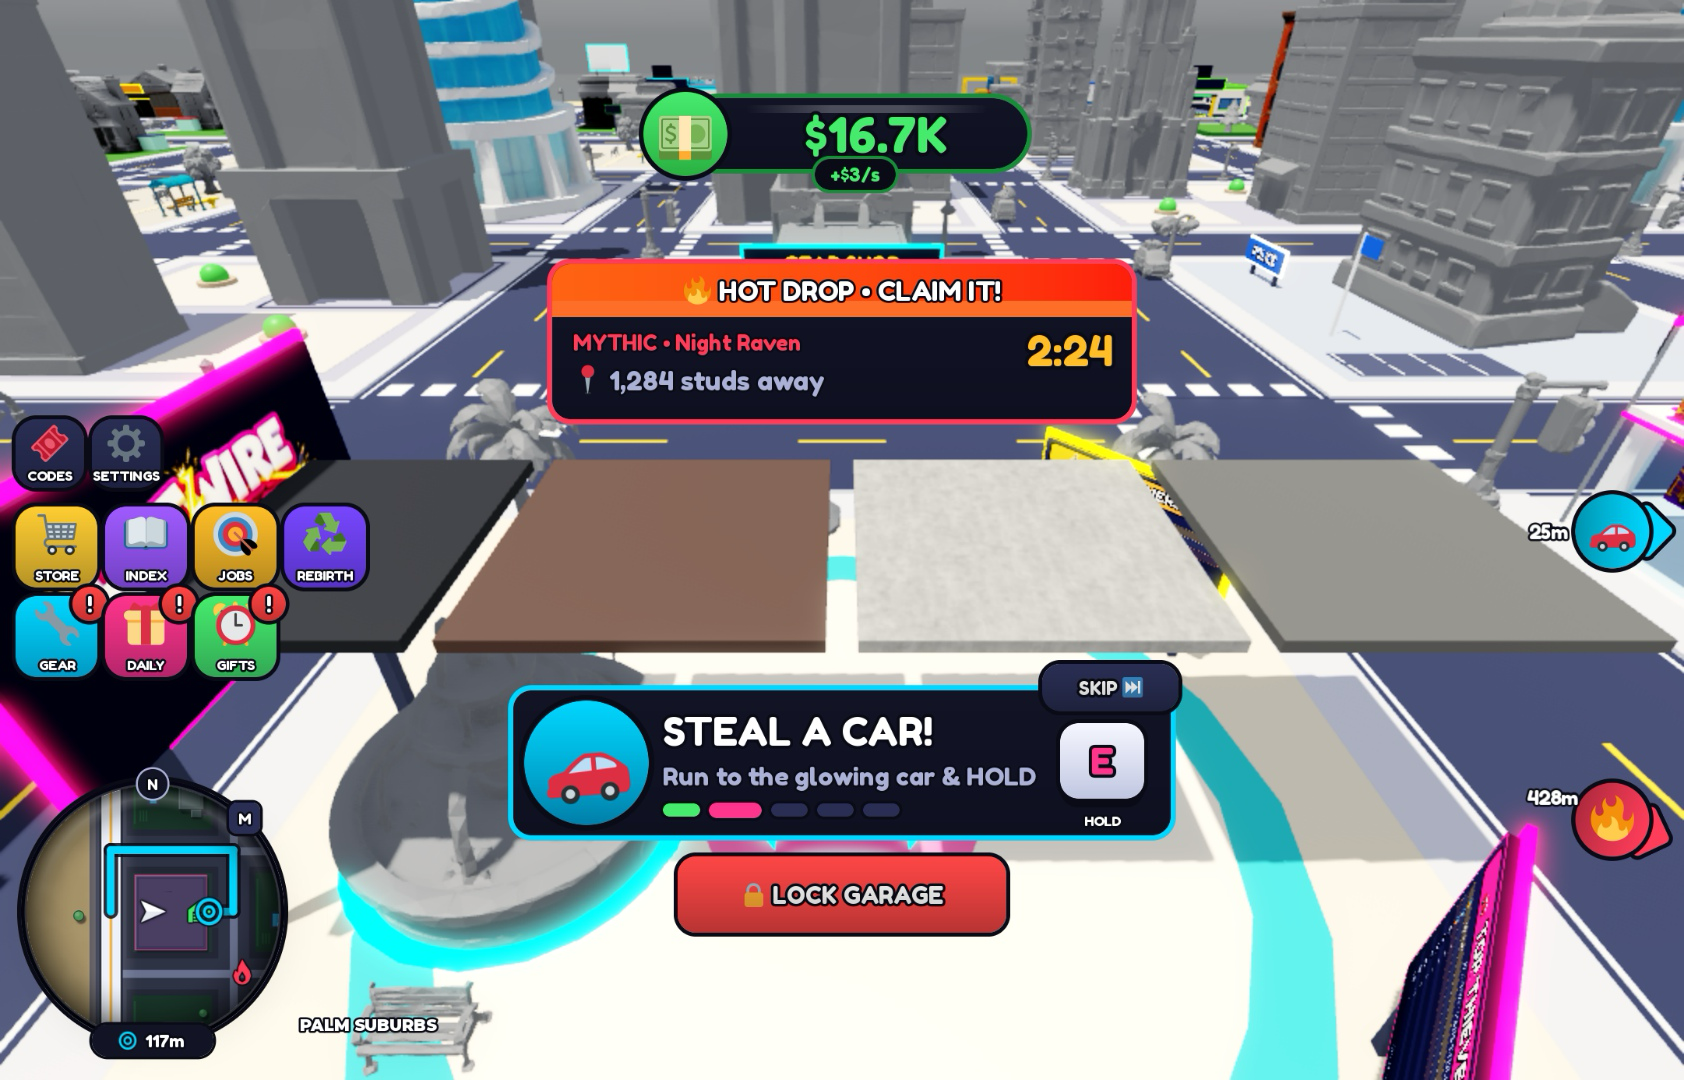
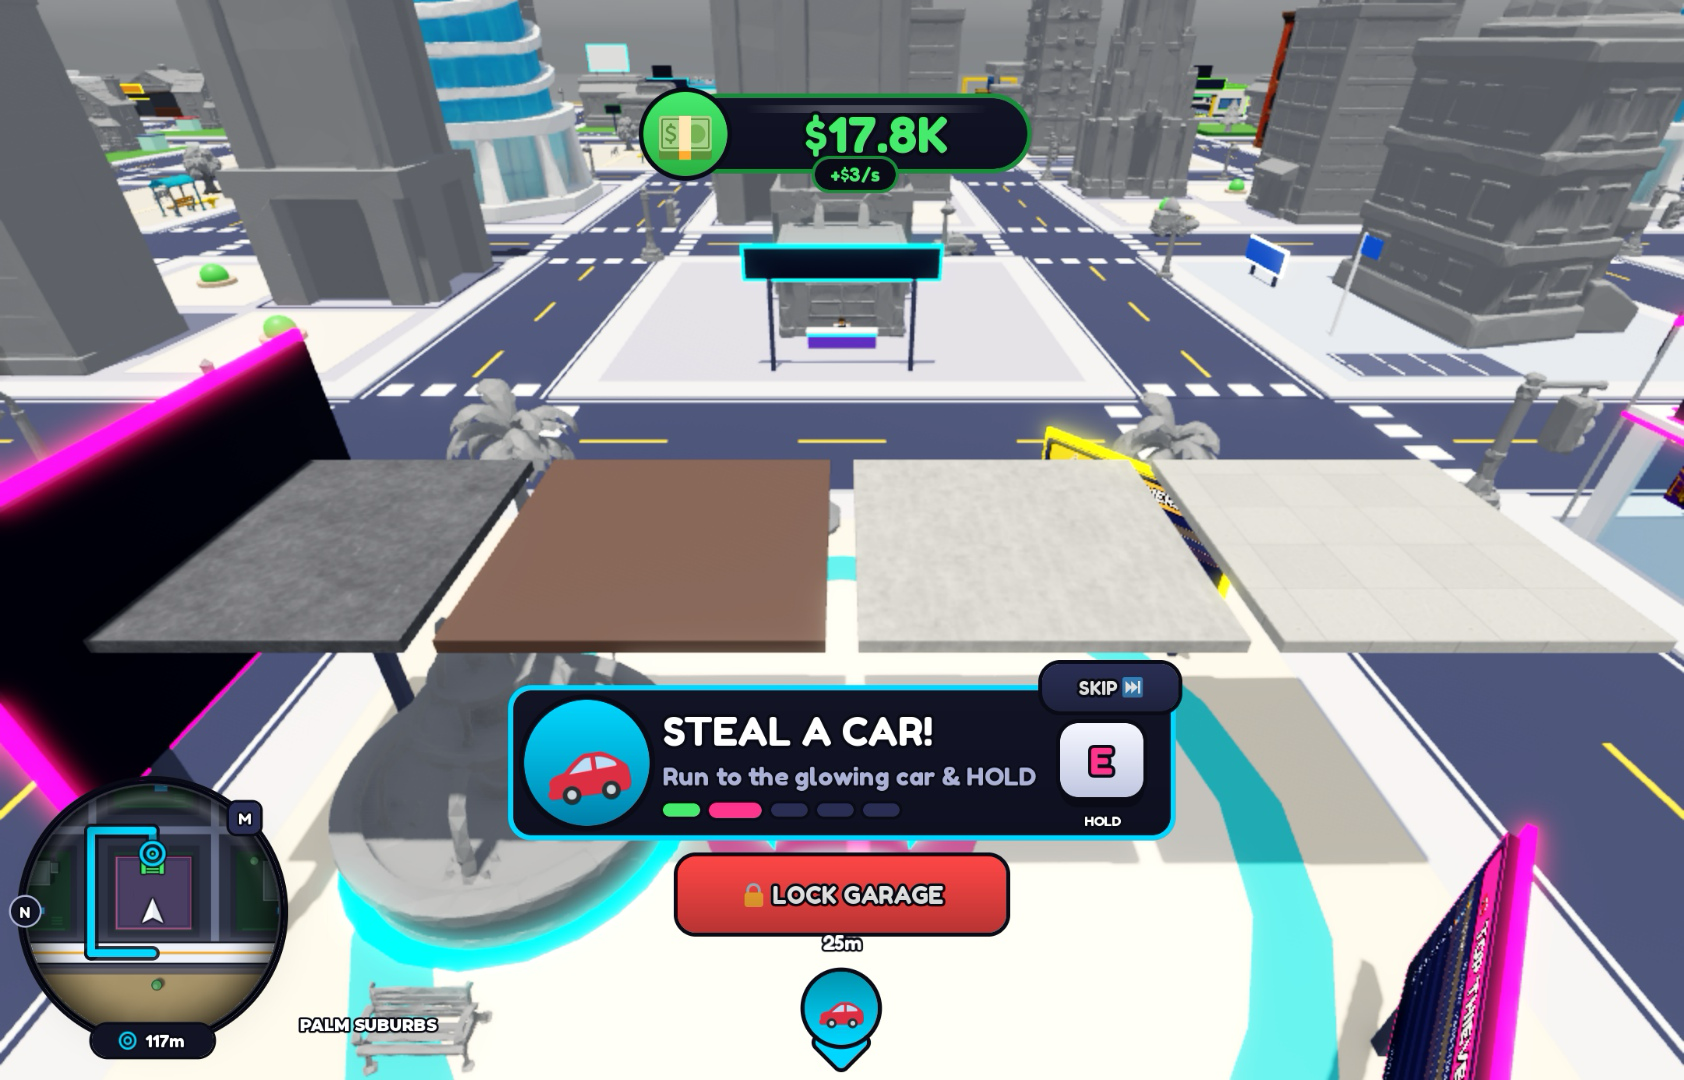
results: 0011 done (PBR check redone after account cleared: asphalt/concrete/sidewalk OK, brick variants flat pending asset regeneration)

diff --git a/studio/results/0011/report.md b/studio/results/0011/report.md
@@ -1,9 +1,10 @@
-# Job 0011 report: look sweep on version 31 (PAUSED, partial, no DONE)
+# Job 0011 report: look sweep on version 31 (DONE)
 
-> **Paused at the lead's request:** the owner account is moderated, and Open Cloud returns 403 "User is moderated".
-> All sweeps A–D were already captured when the pause arrived. Play is stopped and the place is back in Edit.
-> **Nothing was saved or published.** No moderation or ban notice appeared in Studio, and nothing was acknowledged.
-> The account issue affects the **PBR verdict** (and possibly sky textures), so step 4 should be redone once the account is cleared.
+> **History:**
+> - The job was paused partway (owner account moderated). Sweeps A–D had already been captured.
+> - It was resumed at step 4 after the lead confirmed the account was cleared, on the same place and Studio window.
+> - **Nothing was saved or published.** No moderation notice appeared in Studio, and nothing was acknowledged.
+> - The resumed session had **0** "403" or "moderated" lines.
 
 ## Setup
 - **Studio:** one window. The owner reopened the place from Roblox and wasn't sure of the version number. The content confirms **v31**:
@@ -33,16 +34,30 @@
 - **All sweep shots below are at Level 21.** I set the setting back to Automatic afterwards.
 - **Recommendation:** treat overview readability on low quality as a draw-distance and LOD question, separate from Atmosphere tuning.
 
-## Step 4: PBR check (cannot be judged)
-- `pbr_check.png` (Level 21): Asphalt is dark grey, Brick is plain brown, Concrete is pale and speckled, Pavement is plain grey.
-- **No HC_ maps show:** no aggregate, no brick bond, no sidewalk joints. They are tinted stock materials.
-- **The cause is the account, not the overrides.** The Server log shows:
-  - `Unable to load MaterialService.HC_Asphalt - ColorMap 'rbxassetid://112223103107268' (Error: HTTP 403 (Forbidden))`
-  - the same for its NormalMap and RoughnessMap, and for HC_Sidewalk;
-  - then `Unable to generate 'MaterialService.HC_Asphalt' due to some of the textures being unavailable`.
-- The overrides are wired correctly (16/16); the textures just can't download while the account returns 403.
-- **Redo step 4 once the account is cleared.**
-- I cleaned up the slabs with `PBRCHECK_CLEAN`.
+## Step 4: PBR check (redone after the account was cleared, 22:01 UTC)
+The first attempt, `pbr_check_403_blocked.png`, was blocked: every HC_ map returned 403 and the slabs rendered as stock materials.
+
+**Redone at Level 21** (`pbr_check.png`, `pbr_close_*`):
+
+| Slab | Override | Result |
+|---|---|---|
+| Asphalt | HC_Asphalt | ✅ **The PBR map shows:** fine dark aggregate with soft tone patches and a slight sheen. Clearly not stock asphalt. *(pbr_close_asphalt)* |
+| Concrete | HC_Concrete | ✅ A mottled, poured-concrete surface with subtle staining. |
+| Pavement | HC_Sidewalk | ✅ **Sidewalk joints are visible:** a square slab grid at about 10.7 studs. |
+| Brick | HC_BrickRed | ❌ **Completely flat brown, with no brick bond at all.** Even stock Roblox Brick would show bricks, so the variant is rendering with empty maps. *(pbr_close_brick, pbr_close_brick_retry)* |
+
+**Brick diagnosis:**
+- The override is correct: `GetBaseMaterialOverride(Brick) = HC_BrickRed`, `StudsPerTile` 5, and ColorMap `130389958232148`.
+- I made two slabs forced to `MaterialVariant = HC_BrickTan` and `HC_BrickRed`. **Both are also flat** (`diag_brick_variants.png`), so it affects both brick variants.
+- The **same texture ids applied as plain Decals do render as brick** (`diag_brick_decals.png`, magenta-backed tiles: BrickRed on the left, BrickTan in the middle, Asphalt on the right). So delivery works and the images are correct. The repo source `assets/materials/brick_red/color.png` is a proper red-brick bond.
+- The log shows the likely cause:
+  - `ContentId: rbxassetid://130389958232148 failed due to: Asset content representation is being generated`;
+  - the same for `119510173406235` (HC_BrickTan) and `112223103107268` (HC_Asphalt), plus several mesh ids.
+  - Roblox is still regenerating asset content after the moderation was lifted, and the brick variants were built while their maps weren't ready.
+  - Asphalt recovered (it had loaded earlier in the session), but the brick variants haven't been rebuilt yet in this Studio process.
+- I can't force a rebuild, because MaterialVariant map properties need plugin security.
+- **Verdict:** the overrides and three of four HC_ materials are confirmed working. **Brick needs a re-check** after a fresh Studio launch, or a live server, once regeneration finishes. It's not a code bug as far as I can see.
+- All slabs, decals and diagnostic parts were cleaned up (`HCPbrCheck` destroyed), and the client quality is back to Automatic.
 
 ## A: noon fog density (lock 13, Level 21)
 | Density | overview_high (≈1,300 studs to downtown) | overview_low_sw (≈1,000 studs) |
@@ -103,9 +118,10 @@
 ## Files
 - **Sweeps:** `A_*`, `B_*`, `C_*`, `D_*` (Level 21).
   - `B_n_tintold_overview_low_sw_banner.png` is the first try, covered by a "Cash Rain" banner; I re-shot it.
-- **PBR:** `pbr_check.png` (Level 21) plus `pbr_check_*_autoquality.png`.
+- **PBR, first attempt (403-blocked):** `pbr_check_403_blocked.png` (Level 21) plus `pbr_check_*_autoquality.png`.
   - The first framing per the job (camera at the printed position) showed only 2 slabs, so I re-framed further back.
+- **PBR, redone:** `pbr_check.png`, `pbr_close_asphalt.png`, `pbr_close_brick.png`, `pbr_close_brick_retry.png`, `diag_brick_variants.png`, `diag_brick_decals.png`.
 - **Diagnostics:** `diag_*` (overview_high grey at Automatic quality, then fixed at Level 21).
 
-## Still to do when the account is cleared
-1. Redo step 4 (PBR slabs) so the HC_ maps can load. Then write DONE.
+## Follow-up
+- Re-check the HC_BrickRed and HC_BrickTan variants on a fresh Studio launch once Roblox has finished regenerating asset content. They render flat in this session (see step 4).
